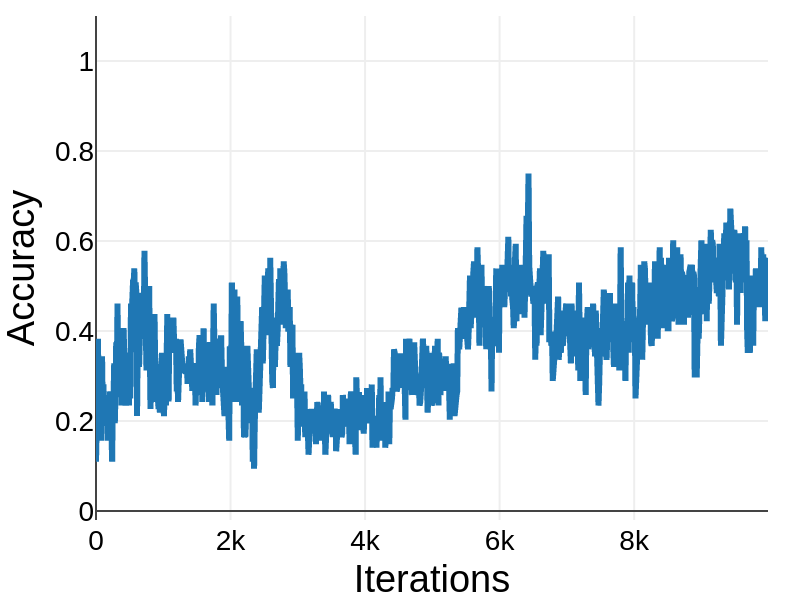
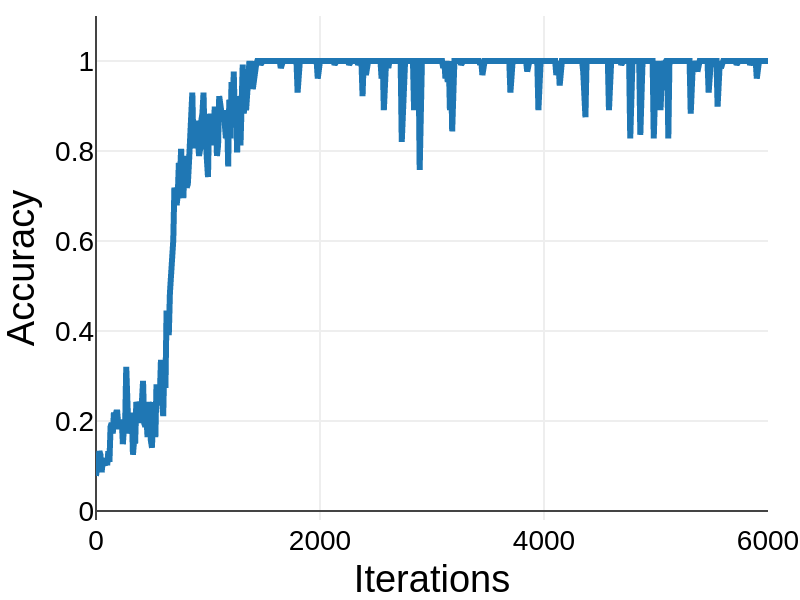
Finish part 1

diff --git a/assignment_2/report/DanielDaza-report2.tex b/assignment_2/report/DanielDaza-report2.tex
@@ -201,7 +201,7 @@ We train an RNN in the task of predicting the last digit of a palindrome number.
 
 \subsection*{Question 1.3}
 
-We study the performance of the RNN for sequences of different lengths. We start with sequences of length 5, for which the model achieves an accuracy of 100\% in a small number of iterations. When increasing the length, more iterations are required and the final accuracy is lower. This is shown in Figure \ref{fig:rnn_acc_curves}.
+We study the performance of the RNN for sequences of different lengths. We start with sequences of length 5, for which the model achieves an accuracy of 100\% in a small number of iterations. When increasing the length, a smaller learning rate is required, and therefore more iterations are needed to reach the same accuracy. This is shown in Figure \ref{fig:rnn_acc_curves}.
 
 We experiment with increasing sequence lengths, from 4 to 24, and for each length we run 10 experiments in order to evaluate the variance of the results. As shown in Figure \ref{fig:rnn_acc_box}, training on sequences of length 4 yields an accuracy of 100\% almost always. As the length increases, the variance grows as well, and at length 12 we observe the highest variance. This indicates that in this setting, the random initialization of the parameters might produce a very accurate model, or a model with random performance, revealing a high sensitivity on the parameter initialization. For lengths higher than 16 the final performance is consistently lower. These results demonstrate the fact that RNNs are problematic when modeling long sequences.
 
@@ -216,7 +216,7 @@ We experiment with increasing sequence lengths, from 4 to 24, and for each lengt
 \includegraphics[scale=0.22]{img/rnn-acc-L15}
 \caption{}
 \end{subfigure}
- \caption{Accuracy curves during training, for sequences of (a) length 5, and (b) length 15. While for a length of 5 the model converges quickly to a high accuracy, longer sequences take longer to converge and the final result is lower.}
+ \caption{Accuracy curves during training of the RNN, for sequences of (a) length 5, and (b) length 15. While for a length of 5 the model converges quickly to a high accuracy, longer sequences take longer for the model to converge to a good solution.}
 \label{fig:rnn_acc_curves}
 \end{figure}
 
@@ -251,9 +251,29 @@ In SGD, every parameter is updated with the gradient multiplied by the same lear
 \item[b)] Let $d$ be the dimension of the input, and $n$ the number of units in the LSTM. There are 8 weight matrices in the LSTM with a size of $(n, d)$, and 4 bias vectors of size $n$. Therefore, the number of trainable parameters in the LSTM cell is $8nd + 4b$. If we took into account the linear output layer that calculates $\mathbf{p}^{(t)}$, we would have to add $k(h + 1)$ parameterers, where $k$ is the number of outputs.
 \end{description}
 
+\subsection*{Question 1.6}
+
+We implemented the LSTM and trained it in the same way as the RNN. Figure \ref{fig:lstm_acc_curves} shows the accuracy curves for sequences of length 5 and 15. We observe that the network reaches an accuracy of 100\% in both cases. Interestingly, for sequences of length 15, the LSTM requires more iterations than the RNN. We attribute this to the increase in the number of parameters.
+
+
+\begin{figure}[t]
+\begin{subfigure}{0.49\textwidth}
+\centering
+\includegraphics[scale=0.22]{img/lstm-acc-L5}
+\caption{}
+\end{subfigure}
+\begin{subfigure}{0.49\textwidth}
+\centering
+\includegraphics[scale=0.22]{img/lstm-acc-L15}
+\caption{}
+\end{subfigure}
+ \caption{Accuracy curves during training of the LSTM, for sequences of (a) length 5, and (b) length 15. For this setting the LSTM converges more slowly to the solution than the RNN.}
+\label{fig:lstm_acc_curves}
+\end{figure}
+
+
+
+
 \bibliographystyle{unsrt}
 \bibliography{refs}
-
-
-
 \end{document}

diff --git a/assignment_2/part1/results/lstm-length/main.py b/assignment_2/part1/results/lstm-length/main.py
@@ -1,0 +1,25 @@
+import numpy as np
+import matplotlib.pyplot as plt
+
+from os import listdir
+from os.path import isfile, join
+
+path = './'
+
+len_to_file = {}
+for f in listdir(path):
+    if isfile(join(path, f)) and f.endswith('.npy'):
+        length = int(f[f.find('len') + 3: f.find('.npy')])
+        len_to_file[length] = f
+
+lengths = sorted(len_to_file.keys())
+accs = [np.load(len_to_file[i]) for i in lengths]
+
+plt.figure(figsize=(4, 3))
+plt.boxplot(accs, showfliers=False)
+plt.xlabel('Length')
+plt.ylabel('Accuracy')
+plt.xticks([i+1 for i in range(len(lengths))], lengths)
+plt.tight_layout()
+plt.show()
+
